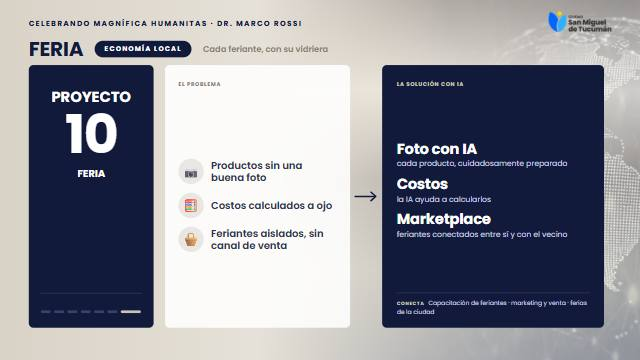
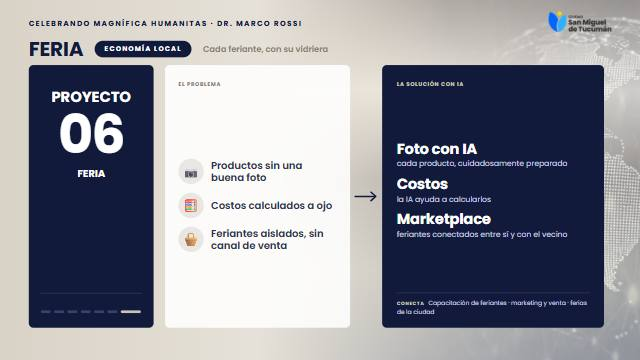
Proyectos numerados en el orden de la charla (01–10), también en la botonera
01 Generador de Notas · 02 Tableros · 03 Applaza · 04 Bus · 05 Presupuesto ·
06 FerIA · 07 UrbanIA · 08 Migue · 09 CIMBA · 10 EstudIA. Miniaturas regeneradas.

Changed region(s): [[0.0938, 0.3056, 0.2188, 0.4278]]

diff --git a/contenido.js b/contenido.js
@@ -53,7 +53,7 @@ window.CONTENIDO = {
   // (CIMBA, datos/cimba-avance.js) y 'kpis' (tablero con números que cuentan).
   // En "url" va lo que se lee en la barra del navegador: nunca una dirección de Vercel.
   PROYECTOS: [
-    // ---------------------------------------------------------------- PUERTAS ADENTRO
+    // ---------------------------------------------------------------- HERRAMIENTAS INTERNAS
     {
       id: 'notas', num: '01', eje: 'Herramientas internas', nombre: 'Generador de Notas',
       idea: 'La herramienta que abrió la puerta', corta: 'Transversal: le sacó el miedo a la IA.',
@@ -88,72 +88,10 @@ window.CONTENIDO = {
       ],
     },
     // ---------------------------------------------------------------- PARA EL VECINO
+    // En el orden de la charla. En la vitrina "Ciudad abierta" (Applaza, Bus, Presupuesto,
+    // FerIA) pasan los problema → solución y lo marcado enVitrina; lo demás, en los cajones.
     {
-      id: 'migue', num: '03', eje: 'Atención ciudadana', nombre: 'Migue',
-      idea: 'Asistente virtual las 24 horas', corta: 'En Ciudad Digital, Telegram y WhatsApp.',
-      estado: 'En funcionamiento',
-      cifras: [['17.848', 'consultas'], ['91%', 'resueltas'], ['3.797', 'vecinos que vuelven']],
-      recursos: [
-        { tipo: 'ps', titulo: 'Una sola puerta para preguntar',
-          problema: [['🏛', 'Cada trámite, en un área distinta'], ['⏰', 'Ventanilla de 8 a 13'], ['🔎', 'Información dispersa']],
-          solucion: [{ n: '24 h', t: 'en Ciudad Digital, Telegram y WhatsApp' }, { n: '17.848', t: 'consultas respondidas' }, { n: '91%', t: 'resueltas', g: 'dona' }, { n: '99,8%', t: 'llegan por Ciudad Digital', g: 'dona' }],
-          conecta: 'Ciudad Digital (CiDiTuc): 160.000 vecinos con cuenta · Guía de Trámites · Turnos · Reclamos · Cortes de tránsito' },
-        { tipo: 'web', src: 'img/migue/canal-cidituc.png', url: 'ciudaddigital.smt.gob.ar', titulo: 'La puerta: Ciudad Digital, con Migue adentro' },
-        { tipo: 'web', src: 'img/capturas/migue/gobernanza.jpg', url: 'migue.smt.gob.ar · Gobernanza de datos', titulo: 'El cerebro: gobernanza de cada consulta' },
-        { tipo: 'web', src: 'img/capturas/migue/clima.jpg', url: 'migue.smt.gob.ar · Clima ciudadano', titulo: 'El termómetro: el clima, leído por IA' },
-        { tipo: 'vivo', titulo: 'Preguntale a Migue, en vivo' },
-      ],
-    },
-    {
-      id: 'cimba', num: '04', eje: 'Obra pública', nombre: 'CIMBA',
-      idea: 'Del reclamo al bache reparado', corta: 'Áreas conectadas, cierre del reclamo, trazabilidad.',
-      estado: 'En funcionamiento',
-      cifras: [['4.316', 'baches desde marzo'], ['880 t', 'de mezcla trazada'], ['6', 'canales conectados']],
-      recursos: [
-        { tipo: 'ps', titulo: 'Del reclamo disperso al bache trazado',
-          problema: [['📥', 'Reclamos dispersos en 6 canales'], ['👯', 'Pedidos duplicados'], ['🔀', 'Mal clasificados: ripio pedido como bache'], ['🧾', 'Sin trazabilidad de materiales']],
-          solucion: [{ n: '1 clic', t: 'cierra el reclamo, con foto de antes y después' }, { n: '4.316', t: 'baches con lugar, fecha y empresa' }, { n: '880 t', t: 'de mezcla asfáltica, trazada' }, { n: '1.383', t: 'arreglos con foto antes y después' }],
-          conecta: '147 · Concejo · S.A.T. · Secretarías · Redes · 12 empresas · SIGOV · Ciudad Digital — la IA detecta duplicados y clasifica cada pedido' },
-        { tipo: 'avance', titulo: 'Así se fue llenando la ciudad' },
-        { tipo: 'web', src: 'img/capturas/cimba/mapa.jpg', url: 'cimba.smt.gob.ar/mapa', titulo: 'Lo pedido y lo hecho, en un mapa' },
-        { tipo: 'web', src: 'img/capturas/cimba/muro.jpg', url: 'cimba.smt.gob.ar/avance', titulo: 'Cada arreglo, con su foto', scroll: true },
-      ],
-    },
-    {
-      id: 'estudia', num: '05', eje: 'Educación', nombre: 'SMT EstudIA',
-      idea: 'La IA arma el borrador, el docente decide', corta: 'Celulares para aprender, con reglas.',
-      estado: 'Piloto en 2 escuelas',
-      cifras: [['2', 'escuelas piloto'], ['1 min', 'por actividad'], ['50', 'usos de IA por día, con tope']],
-      recursos: [
-        { tipo: 'ps', titulo: 'Una escuela que usa la IA con reglas',
-          problema: [['📵', '¿Celulares en el aula: prohibir o usar?'], ['🧑🏫', 'Docentes sobrecargados, sin IA segura'], ['🗂', 'Datos dispersos'], ['🤖', 'Estudiantes usando mal la IA']],
-          solucion: [{ n: '1 min', t: 'para armar una actividad' }, { n: '1', t: 'plataforma: docentes, estudiantes, familias y dirección' }, { n: '50', t: 'usos de IA por día por docente, con tope' }, { n: 'US$ 0,017', t: 'costo de IA del piloto en 30 días' }],
-          conecta: 'La IA arma el borrador · el docente revisa · la IA ayuda a pensar, no hace la tarea' },
-        { tipo: 'web', src: 'img/capturas/estudia/crear.jpg', url: 'estudia.smt.gob.ar/crear', titulo: 'El docente elige; la IA arma el borrador' },
-        { tipo: 'par', web: { src: 'img/capturas/estudia/mi-dia.png', url: 'estudia.smt.gob.ar' }, cel: { src: 'img/capturas/estudia/cel-estudiar.png' }, titulo: 'El celular, para aprender' },
-        { tipo: 'web', src: 'img/capturas/estudia/consumo-ia.jpg', url: 'estudia.smt.gob.ar/admin/consumo-ia', titulo: 'Cuánto cuesta, a la vista' },
-      ],
-    },
-    {
-      id: 'urbania', num: '06', eje: 'Planeamiento urbano', nombre: 'UrbanIA',
-      idea: 'El nuevo Código, con memoria pública', corta: 'Cada idea del vecino, cruzada con su norma.',
-      estado: 'En uso por el equipo del Código',
-      cifras: [['10', 'audiencias públicas'], ['15', 'normas nuevas']],
-      recursos: [
-        { tipo: 'ps', titulo: 'Un Código nuevo que escucha',
-          problema: [['📜', 'Un Código de 1998, con texto de 2014'], ['🎙', 'Horas de audiencias sin sistematizar'], ['🧩', 'Ideas de vecinos sin cruzar con cada norma'], ['🏗', 'Técnicos lejos de la redacción de normas']],
-          solucion: [{ n: '10', t: 'audiencias públicas analizadas' }, { n: '15', t: 'normas nuevas ancladas al Código vigente' }, { n: 'Minuto a minuto', t: 'cada idea del vecino, cruzada con su norma' }, { n: 'Intención', t: 'de cada pedido ciudadano, medida audiencia por audiencia' }],
-          conecta: 'Fábrica de Normas · Audiencias · Consulta al Código · Foro · Mapa — la IA orienta, el equipo valida' },
-        { tipo: 'web', src: 'img/capturas/urbania/audiencia-cruce.jpg', url: 'urbania.smt.gob.ar/audiencias', titulo: 'Lo que dijo cada vecino, con su norma', scroll: true },
-        { tipo: 'web', src: 'img/capturas/urbania/codigo-2026.jpg', url: 'urbania.smt.gob.ar/normas', titulo: 'Fábrica de Normas' },
-        { tipo: 'web', src: 'img/capturas/urbania/consulta-cpu.jpg', url: 'urbania.smt.gob.ar/consulta-cpu', titulo: 'El Código, en lenguaje natural' },
-      ],
-    },
-    // ---------------------------------------------------------------- CIUDAD ABIERTA
-    // En la vitrina "Ciudad abierta" sólo pasan los problema → solución (data-solo="ps");
-    // las capturas quedan en los cajones, para las preguntas.
-    {
-      id: 'espacio', num: '07', eje: 'Espacio público', nombre: 'Applaza',
+      id: 'espacio', num: '03', eje: 'Espacio público', nombre: 'Applaza',
       idea: 'Certificar con un clic', corta: 'Poda, mantenimiento y limpieza de 24 cooperativas.',
       estado: 'En funcionamiento',
       cifras: [['218', 'espacios verdes'], ['911', 'evidencias'], ['24', 'cooperativas']],
@@ -179,7 +117,7 @@ window.CONTENIDO = {
       ],
     },
     {
-      id: 'bus', num: '08', eje: 'Turismo', nombre: 'Bus Turístico',
+      id: 'bus', num: '04', eje: 'Turismo', nombre: 'Bus Turístico',
       idea: 'Reservas que piensan en el turista', corta: 'Del Google Form a un sistema inteligente.',
       estado: 'En funcionamiento',
       cifras: [['488', 'conversaciones'], ['106', 'turistas'], ['74', 'lugares reservados']],
@@ -193,7 +131,7 @@ window.CONTENIDO = {
       ],
     },
     {
-      id: 'presupuesto', num: '09', eje: 'Participación', nombre: 'Presupuesto Participativo',
+      id: 'presupuesto', num: '05', eje: 'Participación', nombre: 'Presupuesto Participativo',
       idea: 'La IA te ayuda a armar tu proyecto', corta: 'Para tu barrio, con Migue integrado.',
       estado: 'Edición 2027 abierta',
       cifras: [['20', 'distritos'], ['19', 'proyectos elegidos en 2025']],
@@ -206,7 +144,7 @@ window.CONTENIDO = {
       ],
     },
     {
-      id: 'ferias', num: '10', eje: 'Economía local', nombre: 'FerIA',
+      id: 'ferias', num: '06', eje: 'Economía local', nombre: 'FerIA',
       idea: 'La vidriera de cada feriante', corta: 'Foto, costos y marketplace con IA.',
       estado: 'En funcionamiento',
       cifras: [],
@@ -216,6 +154,67 @@ window.CONTENIDO = {
           solucion: [{ n: 'Foto con IA', t: 'cada producto, cuidadosamente preparado' }, { n: 'Costos', t: 'la IA ayuda a calcularlos' }, { n: 'Marketplace', t: 'feriantes conectados entre sí y con el vecino' }],
           conecta: 'Capacitación de feriantes · marketing y venta · ferias de la ciudad' },
         { tipo: 'par', web: { src: 'img/capturas/ferias/escritorio-completa.jpg', url: 'Ferias Municipales · San Miguel de Tucumán', scroll: true }, cel: { src: 'img/capturas/ferias/celular.jpg' }, titulo: 'FerIA: las ferias de la ciudad, online' },
+      ],
+    },
+    {
+      id: 'urbania', num: '07', eje: 'Planeamiento urbano', nombre: 'UrbanIA',
+      idea: 'El nuevo Código, con memoria pública', corta: 'Cada idea del vecino, cruzada con su norma.',
+      estado: 'En uso por el equipo del Código',
+      cifras: [['10', 'audiencias públicas'], ['15', 'normas nuevas']],
+      recursos: [
+        { tipo: 'ps', titulo: 'Un Código nuevo que escucha',
+          problema: [['📜', 'Un Código de 1998, con texto de 2014'], ['🎙', 'Horas de audiencias sin sistematizar'], ['🧩', 'Ideas de vecinos sin cruzar con cada norma'], ['🏗', 'Técnicos lejos de la redacción de normas']],
+          solucion: [{ n: '10', t: 'audiencias públicas analizadas' }, { n: '15', t: 'normas nuevas ancladas al Código vigente' }, { n: 'Minuto a minuto', t: 'cada idea del vecino, cruzada con su norma' }, { n: 'Intención', t: 'de cada pedido ciudadano, medida audiencia por audiencia' }],
+          conecta: 'Fábrica de Normas · Audiencias · Consulta al Código · Foro · Mapa — la IA orienta, el equipo valida' },
+        { tipo: 'web', src: 'img/capturas/urbania/audiencia-cruce.jpg', url: 'urbania.smt.gob.ar/audiencias', titulo: 'Lo que dijo cada vecino, con su norma', scroll: true },
+        { tipo: 'web', src: 'img/capturas/urbania/codigo-2026.jpg', url: 'urbania.smt.gob.ar/normas', titulo: 'Fábrica de Normas' },
+        { tipo: 'web', src: 'img/capturas/urbania/consulta-cpu.jpg', url: 'urbania.smt.gob.ar/consulta-cpu', titulo: 'El Código, en lenguaje natural' },
+      ],
+    },
+    {
+      id: 'migue', num: '08', eje: 'Atención ciudadana', nombre: 'Migue',
+      idea: 'Asistente virtual las 24 horas', corta: 'En Ciudad Digital, Telegram y WhatsApp.',
+      estado: 'En funcionamiento',
+      cifras: [['17.848', 'consultas'], ['91%', 'resueltas'], ['3.797', 'vecinos que vuelven']],
+      recursos: [
+        { tipo: 'ps', titulo: 'Una sola puerta para preguntar',
+          problema: [['🏛', 'Cada trámite, en un área distinta'], ['⏰', 'Ventanilla de 8 a 13'], ['🔎', 'Información dispersa']],
+          solucion: [{ n: '24 h', t: 'en Ciudad Digital, Telegram y WhatsApp' }, { n: '17.848', t: 'consultas respondidas' }, { n: '91%', t: 'resueltas', g: 'dona' }, { n: '99,8%', t: 'llegan por Ciudad Digital', g: 'dona' }],
+          conecta: 'Ciudad Digital (CiDiTuc): 160.000 vecinos con cuenta · Guía de Trámites · Turnos · Reclamos · Cortes de tránsito' },
+        { tipo: 'web', src: 'img/migue/canal-cidituc.png', url: 'ciudaddigital.smt.gob.ar', titulo: 'La puerta: Ciudad Digital, con Migue adentro' },
+        { tipo: 'web', src: 'img/capturas/migue/gobernanza.jpg', url: 'migue.smt.gob.ar · Gobernanza de datos', titulo: 'El cerebro: gobernanza de cada consulta' },
+        { tipo: 'web', src: 'img/capturas/migue/clima.jpg', url: 'migue.smt.gob.ar · Clima ciudadano', titulo: 'El termómetro: el clima, leído por IA' },
+        { tipo: 'vivo', titulo: 'Preguntale a Migue, en vivo' },
+      ],
+    },
+    {
+      id: 'cimba', num: '09', eje: 'Obra pública', nombre: 'CIMBA',
+      idea: 'Del reclamo al bache reparado', corta: 'Áreas conectadas, cierre del reclamo, trazabilidad.',
+      estado: 'En funcionamiento',
+      cifras: [['4.316', 'baches desde marzo'], ['880 t', 'de mezcla trazada'], ['6', 'canales conectados']],
+      recursos: [
+        { tipo: 'ps', titulo: 'Del reclamo disperso al bache trazado',
+          problema: [['📥', 'Reclamos dispersos en 6 canales'], ['👯', 'Pedidos duplicados'], ['🔀', 'Mal clasificados: ripio pedido como bache'], ['🧾', 'Sin trazabilidad de materiales']],
+          solucion: [{ n: '1 clic', t: 'cierra el reclamo, con foto de antes y después' }, { n: '4.316', t: 'baches con lugar, fecha y empresa' }, { n: '880 t', t: 'de mezcla asfáltica, trazada' }, { n: '1.383', t: 'arreglos con foto antes y después' }],
+          conecta: '147 · Concejo · S.A.T. · Secretarías · Redes · 12 empresas · SIGOV · Ciudad Digital — la IA detecta duplicados y clasifica cada pedido' },
+        { tipo: 'avance', titulo: 'Así se fue llenando la ciudad' },
+        { tipo: 'web', src: 'img/capturas/cimba/mapa.jpg', url: 'cimba.smt.gob.ar/mapa', titulo: 'Lo pedido y lo hecho, en un mapa' },
+        { tipo: 'web', src: 'img/capturas/cimba/muro.jpg', url: 'cimba.smt.gob.ar/avance', titulo: 'Cada arreglo, con su foto', scroll: true },
+      ],
+    },
+    {
+      id: 'estudia', num: '10', eje: 'Educación', nombre: 'SMT EstudIA',
+      idea: 'La IA arma el borrador, el docente decide', corta: 'Celulares para aprender, con reglas.',
+      estado: 'Piloto en 2 escuelas',
+      cifras: [['2', 'escuelas piloto'], ['1 min', 'por actividad'], ['50', 'usos de IA por día, con tope']],
+      recursos: [
+        { tipo: 'ps', titulo: 'Una escuela que usa la IA con reglas',
+          problema: [['📵', '¿Celulares en el aula: prohibir o usar?'], ['🧑🏫', 'Docentes sobrecargados, sin IA segura'], ['🗂', 'Datos dispersos'], ['🤖', 'Estudiantes usando mal la IA']],
+          solucion: [{ n: '1 min', t: 'para armar una actividad' }, { n: '1', t: 'plataforma: docentes, estudiantes, familias y dirección' }, { n: '50', t: 'usos de IA por día por docente, con tope' }, { n: 'US$ 0,017', t: 'costo de IA del piloto en 30 días' }],
+          conecta: 'La IA arma el borrador · el docente revisa · la IA ayuda a pensar, no hace la tarea' },
+        { tipo: 'web', src: 'img/capturas/estudia/crear.jpg', url: 'estudia.smt.gob.ar/crear', titulo: 'El docente elige; la IA arma el borrador' },
+        { tipo: 'par', web: { src: 'img/capturas/estudia/mi-dia.png', url: 'estudia.smt.gob.ar' }, cel: { src: 'img/capturas/estudia/cel-estudiar.png' }, titulo: 'El celular, para aprender' },
+        { tipo: 'web', src: 'img/capturas/estudia/consumo-ia.jpg', url: 'estudia.smt.gob.ar/admin/consumo-ia', titulo: 'Cuánto cuesta, a la vista' },
       ],
     },
   ],

diff --git a/version.js b/version.js
@@ -1,4 +1,4 @@
 // Versión de la presentación. La pantalla la informa y la botonera la compara:
 // si no coinciden (una de las dos quedó abierta de antes), la botonera avisa
 // que hay que recargar. Cambiarla en cada publicación.
-window.UBA_VERSION = '2026-10-16.7';
+window.UBA_VERSION = '2026-10-16.8';
